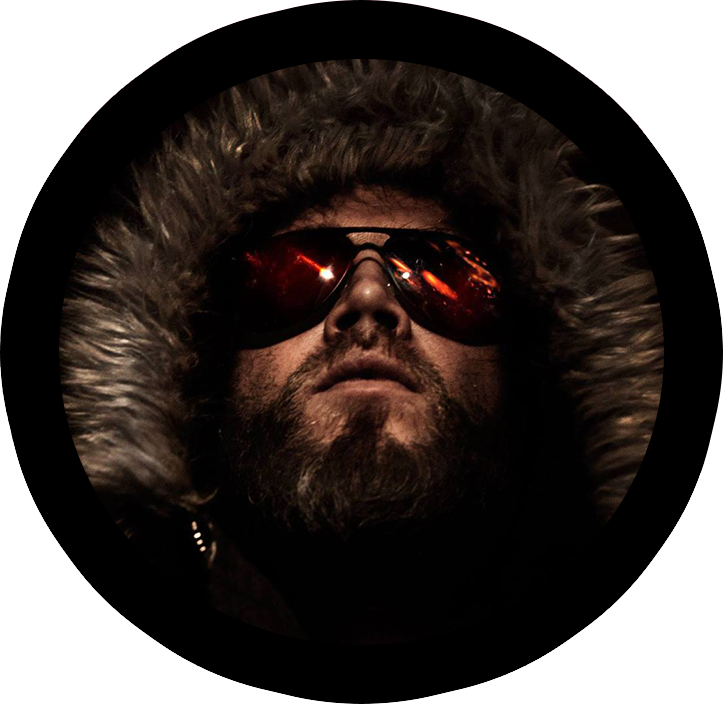
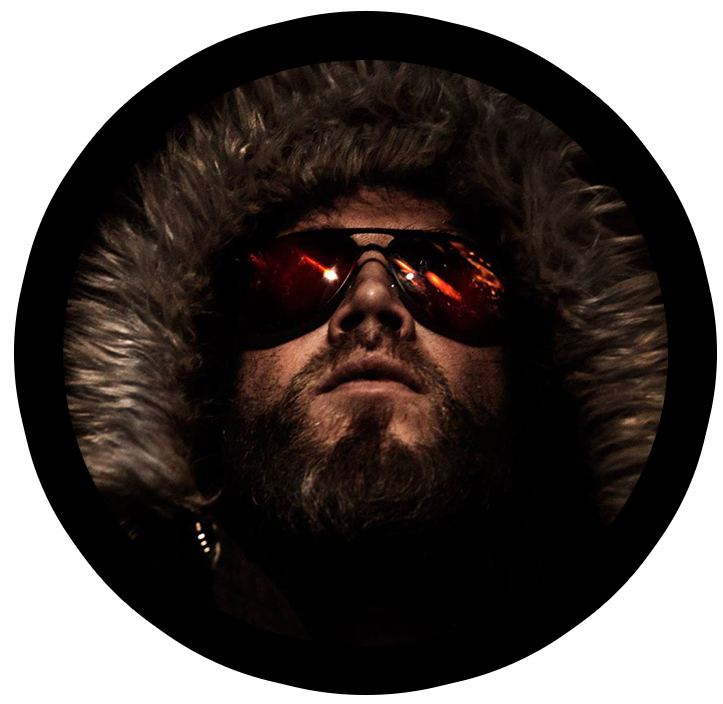
about section

diff --git a/css/style.css b/css/style.css
@@ -303,7 +303,6 @@ header {
       -webkit-box-align: center;
       -ms-flex-align: center;
       align-items: center;
-      border: 1px black dashed;
       width: 30%;
       height: 60vh;
       -webkit-box-orient: vertical;
@@ -311,15 +310,20 @@ header {
       -ms-flex-direction: column;
       flex-direction: column; }
     .about .main div:nth-child(1) {
-      width: 70%;
+      width: 64%;
       padding: 5%; }
       .about .main div:nth-child(1) h2 {
         color: black; }
       .about .main div:nth-child(1) p {
-        padding: 30px;
+        padding: 25px;
         margin-top: 20px;
-        line-height: 1.7;
-        font-size: 1.2rem; }
+        line-height: 1.6;
+        font-size: 1.1rem; }
+    .about .main img {
+      width: 133%;
+      position: relative;
+      right: 15%;
+      bottom: -39px; }
   .about .tools {
     height: 40vh;
     background: black; }
@@ -347,4 +351,4 @@ aside {
 .move-aside {
   left: 20px; }
 
[2 lines of base64/hex data omitted]

diff --git a/scss/style.scss b/scss/style.scss
@@ -307,7 +307,7 @@ header {
 
 .about {
   background: WHITE;
-  background-image:url("../img/back_logo_opacity.png");
+  background-image: url("../img/back_logo_opacity.png");
   background-repeat: no-repeat;
   background-position: -199px 82px;
   height: 100vh;
@@ -320,14 +320,13 @@ header {
     div {
       display: flex;
       align-items: center;
-      border: 1px black dashed;
       width: 30%;
       height: 60vh;
       flex-direction: column;
     }
 
     div:nth-child(1) {
-      width: 70%;
+      width: 64%;
       padding: 5%;
 
       h2 {
@@ -335,13 +334,21 @@ header {
       }
 
       p {
-        padding: 30px;
+        padding: 25px;
         margin-top: 20px;
-        line-height: 1.7;
-        font-size: 1.2rem;
+        line-height: 1.6;
+        font-size: 1.1rem;
       }
     }
+
+    img {
+      width: 133%;
+      position: relative;
+      right: 15%;
+      bottom: -39px;
+    }
   }
+
   .tools {
     height: 40vh;
     background: black;

diff --git a/index.html b/index.html
@@ -156,8 +156,8 @@
             and create wonderful and user-friendly applications. I am mostly interested in JavaScript, and also want to get into backend technologies like Node.js, PHP and Python.
             Full of ideas and eager to learn new things.</p>
         </div>
-        <div>
-
+        <div class="side-photo">
+<img src="img/face.png" alt="portrait">
         </div>
 
       </div>
